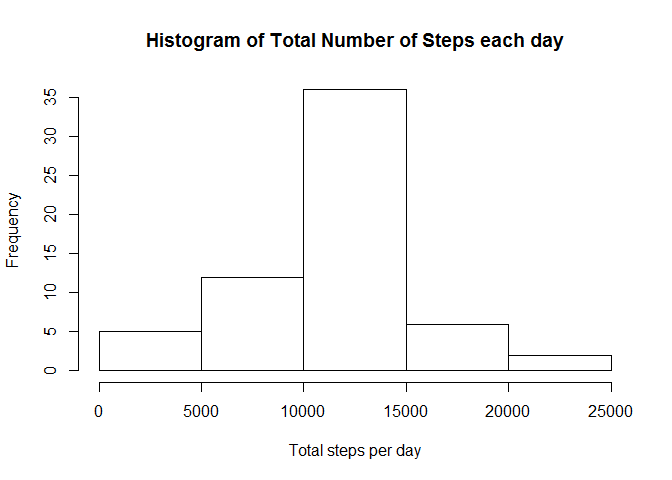
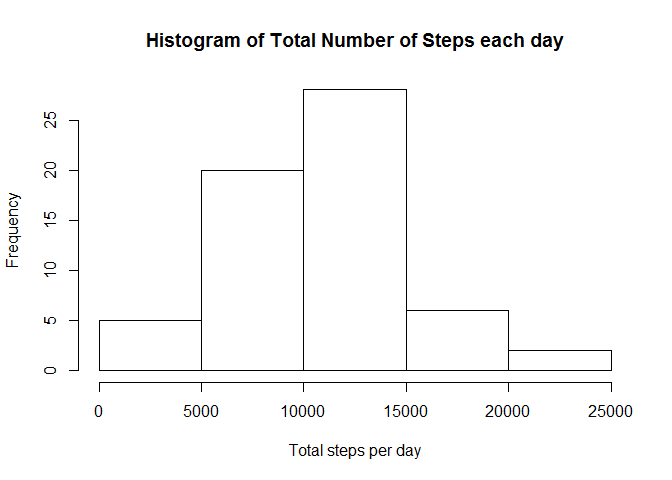
Assignment Complete

diff --git a/PA1_template.html b/PA1_template.html
@@ -80,10 +80,11 @@ stepsMedian&lt;-median(stepsPerDay)</code></pre>
 <div id="what-is-the-average-daily-activity-pattern" class="section level2">
 <h2>What is the average daily activity pattern?</h2>
 <p>The average number of steps taken in each 5-minute interval across all the days is calculated and is plotted.</p>
-<pre class="r"><code>step_average &lt;- tapply(actData$steps, actData$interval, mean, na.rm = TRUE, simplify = TRUE)
+<pre class="r"><code>step_average  &lt;- tapply(actData$steps, actData$interval, sum, na.rm = TRUE, simplify = TRUE)/
+  length(levels(actData$date))
 plot(x = levels(as.factor(actData$interval)), y = step_average, type = &quot;l&quot;, xlab = &quot;time&quot;,
      ylab = &quot;number of steps&quot;, main = &quot;Average number of steps&quot;)</code></pre>
[2 lines of base64/hex data omitted]
 <pre class="r"><code>maxAvg&lt;-names(which.max(step_average))</code></pre>
 <p>The Interval which contains the maximum number of steps on average is 835.</p>
 </div>
@@ -92,8 +93,7 @@ plot(x = levels(as.factor(actData$interval)), y = step_average, type = &quot;l&q
 <pre class="r"><code>nas &lt;- sum(!complete.cases(actData$steps))</code></pre>
 <p>The total number of rows with NAs is 2304.</p>
 <p>Fill in all of the missing values in the dataset using the mean of the interval</p>
-<pre class="r"><code>actDataFinal &lt;- actData
-for (i in 1:length(actData$steps)) {
+<pre class="r"><code>for (i in 1:length(actData$steps)) {
     if (is.na(actData$steps[i])) {
         for (j in 1:length(step_average)) {
             if (as.character(actData$interval[i]) == names(step_average[j])) 
@@ -104,11 +104,13 @@ for (i in 1:length(actData$steps)) {
 comp_data &lt;- actData</code></pre>
 <p>Plot the total number of steps taken each day for the complete dataset using a histogram.</p>
 <pre class="r"><code>comp_step_average &lt;- tapply(comp_data$steps, comp_data$date, sum, na.rm = TRUE, simplify = TRUE)
+
 hist(comp_step_average, xlab='Total steps per day', main='Histogram of Total Number of Steps each day')</code></pre>
[1 lines of base64/hex data omitted]
-<pre class="r"><code>stepsCompMean&lt;-mean(comp_step_average)
-stepsCompMedian&lt;-median(comp_step_average)</code></pre>
-<p>The mean of total number of steps per day is 1.076618910^{4}.<br />The median of total number of steps per day is 1.076618910^{4}.</p>
[1 lines of base64/hex data omitted]
+<pre class="r"><code>stepsCompMean&lt;-as.integer(mean(comp_step_average))
+
+stepsCompMedian&lt;-as.integer(median(comp_step_average))</code></pre>
+<p>The mean of total number of steps per day is 10581.<br />The median of total number of steps per day is 10395.</p>
 <p>There is a slight difference in the mean value but The median value have no difference.From the histogram it is evident that the number of steps per day increases a little bit when the NA values are filled in</p>
 </div>
 <div id="are-there-differences-in-activity-patterns-between-weekdays-and-weekends" class="section level2">
@@ -123,7 +125,7 @@ ggplot(comp_data_avg, aes(interval, steps)) +
     facet_grid(dayType ~ .) +
     xlab(&quot;5-minute interval&quot;) + 
     ylab(&quot;avarage number of steps&quot;)</code></pre>
[2 lines of base64/hex data omitted]
 </div>
 
 

diff --git a/PA1_template.md b/PA1_template.md
@@ -29,7 +29,8 @@ The average number of steps taken in each 5-minute interval across all the days 
 
 
 ```r
-step_average <- tapply(actData$steps, actData$interval, mean, na.rm = TRUE, simplify = TRUE)
+step_average  <- tapply(actData$steps, actData$interval, sum, na.rm = TRUE, simplify = TRUE)/
+  length(levels(actData$date))
 plot(x = levels(as.factor(actData$interval)), y = step_average, type = "l", xlab = "time",
      ylab = "number of steps", main = "Average number of steps")
 ```
@@ -53,7 +54,6 @@ Fill in all of the missing values in the dataset using the mean of the interval
 
 
 ```r
-actDataFinal <- actData
 for (i in 1:length(actData$steps)) {
     if (is.na(actData$steps[i])) {
         for (j in 1:length(step_average)) {
@@ -69,17 +69,19 @@ Plot the total number of steps taken each day for the complete dataset using a h
 
 ```r
 comp_step_average <- tapply(comp_data$steps, comp_data$date, sum, na.rm = TRUE, simplify = TRUE)
+
 hist(comp_step_average, xlab='Total steps per day', main='Histogram of Total Number of Steps each day')
 ```
 
 ![](PA1_template_files/figure-html/unnamed-chunk-6-1.png) 
 
 ```r
-stepsCompMean<-mean(comp_step_average)
-stepsCompMedian<-median(comp_step_average)
+stepsCompMean<-as.integer(mean(comp_step_average))
+
+stepsCompMedian<-as.integer(median(comp_step_average))
 ```
-The mean of total number of steps per day is 1.0766189\times 10^{4}.  
-The median of total number of steps per day is 1.0766189\times 10^{4}.
+The mean of total number of steps per day is 10581.  
+The median of total number of steps per day is 10395.
 
 There is a slight difference in the mean value but The median value have no difference.From the histogram it is evident that the number of steps per day increases a little bit when the NA values are filled in 
 
